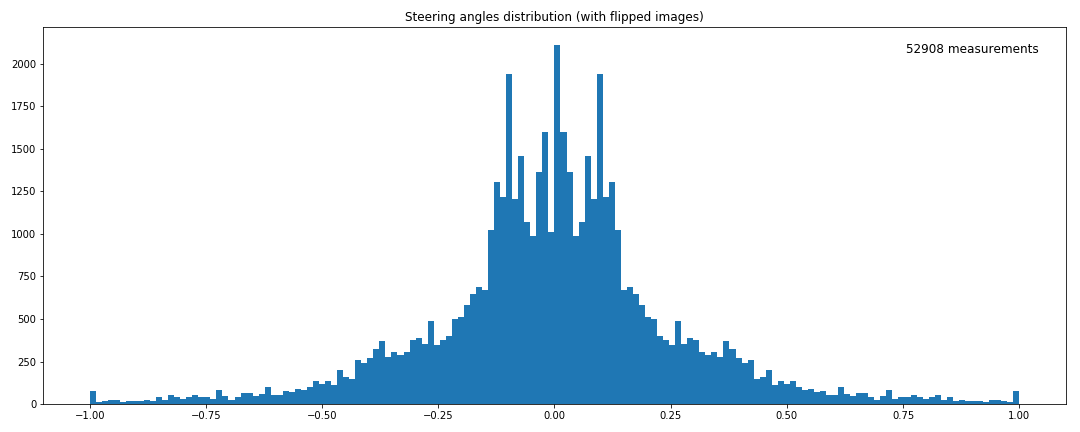
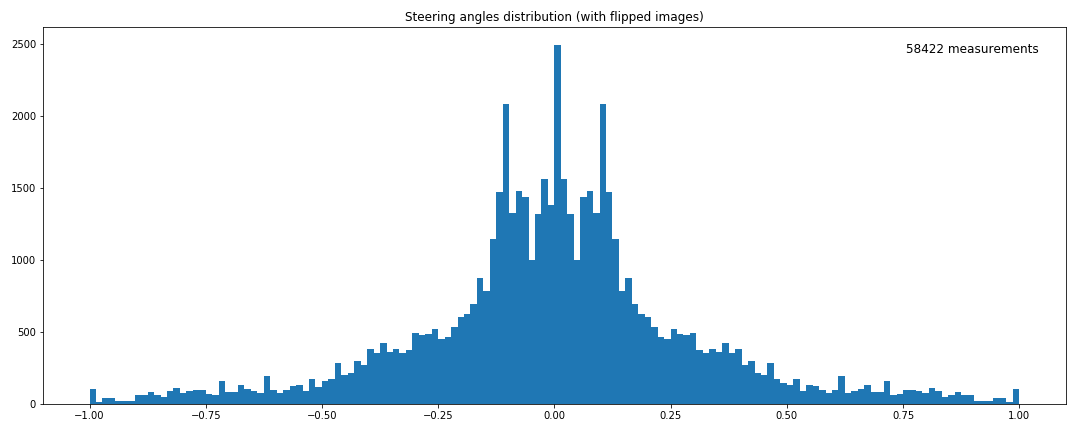
Train speed improvement

diff --git a/data_loader.py b/data_loader.py
@@ -19,17 +19,17 @@ class DataLoader():
     Optionally extends the images with right and left cameras view applying a correction to
     the measured angle.
 
-    Optionally normalizes the dataset to cut off spikes of data.
-
     Optionally extends the dataset flipping the images horizontally (and inverting the angle)
+
+    Optionally normalizes the dataset to cut off spikes of data.
     
     """
 
     def __init__(self, train_file, log_file, img_folder,
                  path_separator = '\\',
-                 angle_correction = 0.1, 
-                 normalize_factor = 2,
-                 flip_min_angle = 0.0):
+                 angle_correction = 0.1,
+                 flip_min_angle = 0.0, 
+                 normalize_factor = 2):
         """
         Initializes the data loader with the given paths to use in order to generate
         the extended dataset.
@@ -51,8 +51,8 @@ class DataLoader():
         self.img_folder = img_folder
         self.path_separator = path_separator
         self.angle_correction = angle_correction
-        self.normalize_factor = normalize_factor
         self.flip_min_angle = flip_min_angle
+        self.normalize_factor = normalize_factor
 
     def load_dataset(self, regenerate = False):
         """
@@ -77,24 +77,39 @@ class DataLoader():
         
         return images, measurements
     
-    def generator(self, images, measurements, batch_size = 64):
+    def generator(self, images, measurements, batch_size = 64, preprocess = True):
         """
         Returns a generators over the given image (names) and measurements with the given batch size. Only the steering_angle
         is included in each batch. The images returned are ready to be fed to the model as they are processed by the generator.
+
+        Parameters
+            images: The set of image names
+            measurements: The associated measurements
+            batch_size: The size of the batches to yield
+            preprocess: If True preprocess all the images in memory before creating the batches, this speeds speeds up considerably
+                        the training but requires a lot more memory
         """
         
         num_samples = len(images)
         
         assert(num_samples == len(measurements))
+
+        if preprocess:
+            # Preprocess all the images before generating batches
+            images = np.array(list(map(self._load_image, images)))
+
+        # Takes only the steering angle for now
+        measurements = measurements[:,0]
         
         while True:
             images, measurements = shuffle(images, measurements)
             for offset in range(0, num_samples, batch_size):
-                images_batch = images[offset:offset + batch_size]
-                measurements_batch = measurements[offset:offset + batch_size]
-                
-                X_batch = np.array(list(map(self._load_image, images_batch)))
-                Y_batch = measurements_batch[:,0] # Takes the steering angle only, for now
+
+                X_batch = images[offset:offset + batch_size]
+                Y_batch = measurements[offset:offset + batch_size]
+
+                if not preprocess:
+                    X_batch = np.array(list(map(self._load_image, X_batch)))
                 
                 yield shuffle(X_batch, Y_batch)
 
@@ -219,7 +234,7 @@ class DataLoader():
         
         for image, measurement in zip(tqdm(images, unit=' images', desc='Flipping'), measurements):
             steering_angle, throttle, break_force = measurement
-            if steering_angle >= self.flip_min_angle or steering_angle <= -self.flip_min_angle:
+            if abs(steering_angle) >= self.flip_min_angle:
                 img_filpped_name = 'flipped_' + image
                 img_flipped_path = os.path.join(self.img_folder, img_filpped_name)
                 # if the images has been flipped already no need to reprocess it
